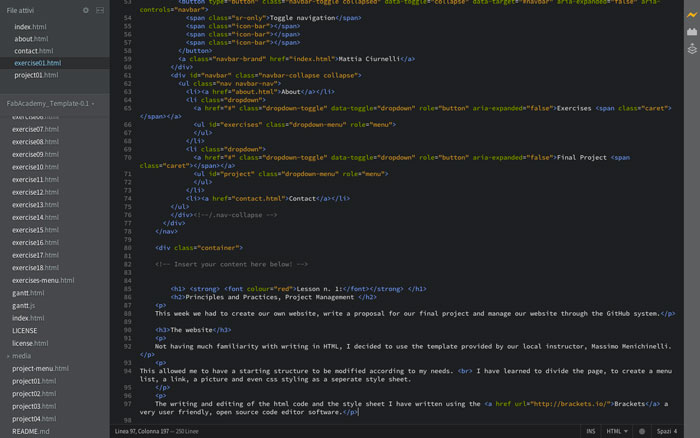
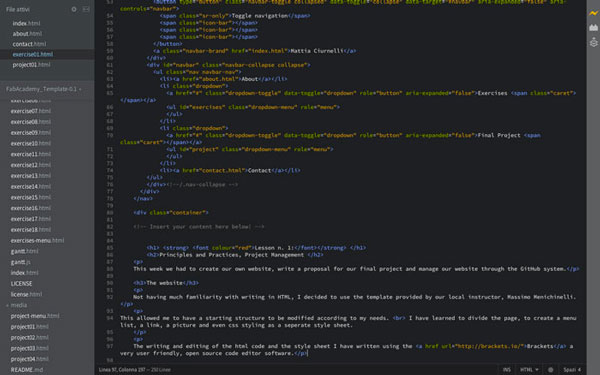
minor fixes,font change

diff --git a/ciurnelli.mattia/media/Mattia.css b/ciurnelli.mattia/media/Mattia.css
@@ -1,7 +1,7 @@
 body {
-font-family: 'Maven Pro', sans-serif; color: black;
-background-image: url(../Image/background.jpg);
-background-attachment: fixed;
+    font-family: 'Maven Pro', sans-serif; color: black;
+    background-image: url(../Image/background.jpg);
+    background-attachment: fixed;
 }
 
 .container .jumbotron, .container-fluid .jumbotron {
@@ -15,24 +15,39 @@ background-attachment: fixed;
     padding: 10px 5px;
     margin-left:30px;
     margin-right:30px;
-
 }
-
-.container .jumbotron, .container-fluid .jumbotron {
-padding-left: 15px;
-padding-right: 15px;
+.container {
+    padding-left: 25px;
+    padding-right: 25px;
+}
+.jumbotron, .container-fluid .jumbotron {
+    padding-left: 15px;
+    padding-right: 15px;
 }
 
 .jumbotron h1 {
     font-size: 35px;
+    font-family: 'Megrim', cursive;
+    font-weight: 900;
 }
 
 .jumbotron h2 {
     font-size: 30px;
+    font-family: 'Rationale', sans-serif;
 }
 
 .jumbotron h3 {
     font-size: 25px;
+    font-family: 'Rationale', sans-serif;
+}
+
+.thumbnail h3 {
+    font-size: 25px;
+    font-family: 'Megrim', cursive;
+}
+.jumbotron h4 {
+    font-size: 20px;
+    font-family: 'Rationale', sans-serif;
 }
 
 .jumbotron p {
@@ -40,23 +55,26 @@ padding-right: 15px;
 }
 
 .thumbnail {
- background-color: grey;
- border: 2px outset;
- border-color: #facd11;
- padding: 10px 10px;
- width: auto;
- height: auto;
- margin-left:30px;
- margin-right:30px;
+    background-color: grey;
+    border: 2px outset;
+    border-color: #facd11;
+    padding: 10px 10px;
+    width: auto;
+    height: auto;
+    margin-left:30px;
+    margin-right:30px;
 }
 
 .navbar {
     background-color: black;
     color: #facd11;
     border-color: black;
-    font-size: 18px;
+    font-size: 20px;
+    font-family: 'Rationale', sans-serif;
 }
-
+.dropdown-menu>li>a {
+    font-size: 17px;
+}
 .collapse navbar-collapse {
     color: #facd11;
 }
@@ -83,6 +101,8 @@ padding-right: 15px;
     color: #facd11;
     background-color: black;
     border-color: #facd11;
+    font-family: 'Rationale', sans-serif;
+    font-size: 17px;
 }
 
 .progress {
@@ -108,10 +128,10 @@ a {
 }
 
 .container p img, .pic, .html5-video-player, .ytp-thumbnail, .img-responsive, .carousel-inner>.item>img, .carousel-inner>.item>a>img {
-  display: block;
-  height: auto;
-  max-width: 100%;
-  margin:auto;
+    display: block;
+    height: auto;
+    max-width: 100%;
+    margin:auto;
 }
 
 .img-responsive, #cv {

diff --git a/ciurnelli.mattia/exercise01.html b/ciurnelli.mattia/exercise01.html
@@ -15,7 +15,7 @@
 
     <!-- Custom styles for this template -->
     <link href="media/fabacademy.css" rel="stylesheet">
-    <link href='http://fonts.googleapis.com/css?family=Maven+Pro:400,500' rel='stylesheet' type='text/css'>
+    <link href='http://fonts.googleapis.com/css?family=Rationale|Megrim|Maven+Pro' rel='stylesheet' type='text/css'>
     <link href="media/Mattia.css" rel="stylesheet">
       
     <!-- 3D files viewer -->
@@ -86,14 +86,15 @@
         <h1> <u> <strong> Lesson n. 1:</strong> </u> </h1>
         <h2>Principles and Practices, Project Management </h2>
 	<p>
-	This week we had two assignements:<br>
-    - <strong>Principles and Practices:</strong> plan and sketch a potential semester project;<br>
-    - <strong>Project Management:</strong> build a personal site in the class archive describing you and your final project.</p>
+	This week we had two assignements:
+        <ol type="1">
+    <li><strong>Principles and Practices:</strong> plan and sketch a potential semester project;</li>
+    <li><strong>Project Management:</strong> build a personal site in the class archive describing you and your final project.</li></p>
+           </ol> 
+    <h3>1. Principles and Practices:</h3>
+    <p>To se my potential idea for the final semester project please see the <a href="project01.html">Concept page</a> on the Final Project menu, for the sketch you can see the page of <a href="exercise02.html">week 2</a> assignement.</p>
             
-    <h3>Principles and Practices:</h3>
-    <p>To se my potential idea for the final semester project please see the <a href="project01.html">Concept page</a> on the Final Project menu.</p>
-            
-    <h3>Project Management</h3>        
+    <h3>2. Project Management</h3>        
     <h4>The website</h4>
 	<p>
     Not having much familiarity with writing in HTML, I decided to use the template provided by our local instructor, Massimo Menichinelli.</p>

diff --git a/ciurnelli.mattia/exercise03.html b/ciurnelli.mattia/exercise03.html
@@ -15,7 +15,7 @@
 
     <!-- Custom styles for this template -->
     <link href="media/fabacademy.css" rel="stylesheet">
-    <link href='http://fonts.googleapis.com/css?family=Maven+Pro:400,500' rel='stylesheet' type='text/css'>
+    <link href='http://fonts.googleapis.com/css?family=Rationale|Megrim|Maven+Pro' rel='stylesheet' type='text/css'>
     <link href="media/Mattia.css" rel="stylesheet">
       
     <!-- 3D files viewer -->
@@ -157,7 +157,7 @@ I'd try to make it in wood, in order to solve all the structural problems that I
 <p class="pic"><img src= "Image/Lesson03/risultato_finale.jpg" class="img-responsive" alt="Responsive image"></p>
 <p class="pic"><img src= "Image/Lesson03/dettaglio_piega.jpg" class="img-responsive" alt="Responsive image"></p><legend>Here you can see a details of the blend</legend>           
             
-<p><a href="media/chess_book.3dm.zip"><button type="button" class="btn btn-primary">Download Rhino file</button></a>
+<p><a href="media/chess_book.3dm.zip"><button type="button" class="btn btn-primary">Download .zip file of ChessBook</button></a>
     
     </div>
     <!-- End of your content -->

diff --git a/ciurnelli.mattia/exercise02.html b/ciurnelli.mattia/exercise02.html
@@ -15,7 +15,7 @@
 
     <!-- Custom styles for this template -->
     <link href="media/fabacademy.css" rel="stylesheet">
-    <link href='http://fonts.googleapis.com/css?family=Maven+Pro:400,500' rel='stylesheet' type='text/css'>
+    <link href='http://fonts.googleapis.com/css?family=Rationale|Megrim|Maven+Pro' rel='stylesheet' type='text/css'>
     <link href="media/Mattia.css" rel="stylesheet">
       
     <!-- 3D files viewer -->
@@ -164,7 +164,7 @@ To have a more realistic rendering I decided to export the .dwg file from Rhino 
 	</script> <br> <br>
             
     <a href="media/rendercanestro.stl">
-    <button type="button" class="btn btn-primary">Download .stl file</button></a>
+    <button type="button" class="btn btn-primary">Download .stl file of the basket</button></a>
             
         </div>
     <!-- End of your content -->

diff --git a/ciurnelli.mattia/about.html b/ciurnelli.mattia/about.html
@@ -15,7 +15,7 @@
 
     <!-- Custom styles for this template -->
     <link href="media/fabacademy.css" rel="stylesheet">
-    <link href='http://fonts.googleapis.com/css?family=Maven+Pro:400,500' rel='stylesheet' type='text/css'>
+    <link href='http://fonts.googleapis.com/css?family=Rationale|Megrim|Maven+Pro' rel='stylesheet' type='text/css'>
     <link href="media/Mattia.css" rel="stylesheet">
       
     <!-- 3D files viewer -->
@@ -84,7 +84,7 @@
 	<!-- Insert your content here below! -->
       
       <div class="jumbotron">
-        <h2>About Me</h2>
+        <h1>About Me</h1>
         <p class="pic"> <img src="Image/aboutme.jpg" class="img-responsive" alt="Responsive image">
 		<legend>Here's my picture.</legend>
 		</p>

diff --git a/ciurnelli.mattia/contact.html b/ciurnelli.mattia/contact.html
@@ -15,7 +15,7 @@
 
     <!-- Custom styles for this template -->
     <link href="media/fabacademy.css" rel="stylesheet">
-    <link href='http://fonts.googleapis.com/css?family=Maven+Pro:400,500' rel='stylesheet' type='text/css'>
+    <link href='http://fonts.googleapis.com/css?family=Rationale|Megrim|Maven+Pro' rel='stylesheet' type='text/css'>
     <link href="media/Mattia.css" rel="stylesheet">
       
     <!-- 3D files viewer -->
@@ -83,7 +83,7 @@
 
 	<!-- Insert your content here below! -->
       <div class="jumbotron">
-        <h2>Contact</h2>
+        <h1>Contact</h1>
       	<p>
        <strong>Email:</strong> m.ciurnelli@gmail.com<br>
        <strong>Mobile:</strong> +39 320/0404831<br> <br>

diff --git a/ciurnelli.mattia/project01.html b/ciurnelli.mattia/project01.html
@@ -15,7 +15,7 @@
 
     <!-- Custom styles for this template -->
     <link href="media/fabacademy.css" rel="stylesheet">
-    <link href='http://fonts.googleapis.com/css?family=Maven+Pro:400,500' rel='stylesheet' type='text/css'>
+    <link href='http://fonts.googleapis.com/css?family=Rationale|Megrim|Maven+Pro' rel='stylesheet' type='text/css'>
     <link href="media/Mattia.css" rel="stylesheet">
       
     <!-- 3D files viewer -->
@@ -84,7 +84,7 @@
 	<!-- Insert your content here below! -->
      
     <div class="jumbotron">
-    <h2>Final Project</h1>
+    <h1>Final Project</h1>
     
     <h3>The Concept</h3>
 	<p>

diff --git a/ciurnelli.mattia/exercise04.html b/ciurnelli.mattia/exercise04.html
@@ -15,7 +15,7 @@
 
     <!-- Custom styles for this template -->
     <link href="media/fabacademy.css" rel="stylesheet">
-    <link href='http://fonts.googleapis.com/css?family=Maven+Pro:400,500' rel='stylesheet' type='text/css'>
+    <link href='http://fonts.googleapis.com/css?family=Rationale|Megrim|Maven+Pro' rel='stylesheet' type='text/css'>
     <link href="media/Mattia.css" rel="stylesheet">
       
     <!-- 3D files viewer -->

diff --git a/ciurnelli.mattia/index.html b/ciurnelli.mattia/index.html
@@ -15,7 +15,7 @@
 
     <!-- Custom styles for this template -->
     <link href="media/fabacademy.css" rel="stylesheet">
-    <link href='http://fonts.googleapis.com/css?family=Maven+Pro:400,500' rel='stylesheet' type='text/css'>
+    <link href='http://fonts.googleapis.com/css?family=Rationale|Megrim|Maven+Pro' rel='stylesheet' type='text/css'>
     <link href="media/Mattia.css" rel="stylesheet">
       
     <!-- 3D files viewer -->
